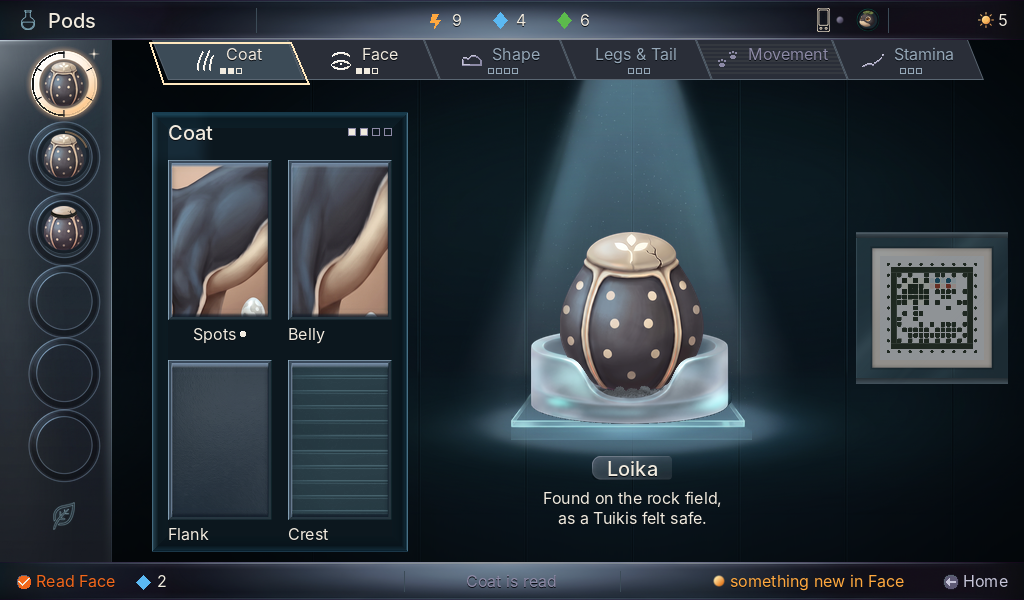
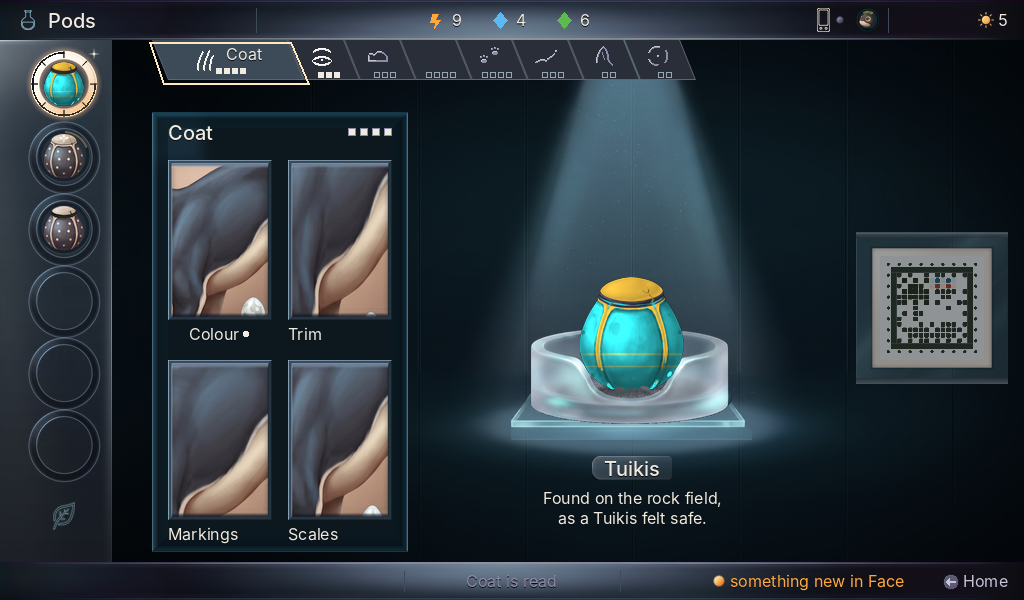
Pods masters: both composites the Tuikis with its real chapters, the plate reads the species name

diff --git a/art/station-masters/pods/tools/compose.py b/art/station-masters/pods/tools/compose.py
@@ -28,25 +28,25 @@ def compose(traits, rail):
         d.text(xy, s, font=font, fill=fill, anchor=anchor)
     put("room-bench-stage", 0, 40); put("ring-column-112x522", 0, 40)
     # the wells: a ring slice at (24, 44 + 72 i), the pod 32x48 centred in it, the arcs on the inner edge; a glint star at the selected ring's upper right
-    pods = {0: "pod-well-identified", 1: "pod-well-identified", 2: "pod-well-sealed"}; lit = {0: (6, 3), 1: (5, 1), 2: (4, 0)} if rail == "six" else {0: (8, 3), 1: (5, 1), 2: (4, 0)}
+    pods = {0: "pod-well-identified", 1: "pod-well-identified", 2: "pod-well-sealed"}; lit = {0: (8, 2 if rail == "six" else 3), 1: (5, 1), 2: (4, 0)}
     for i in range(6):
         y = 44 + 72 * i; sel = i == 0; st = "selected" if sel else "idle"
         put("ring-well-selected-80x80" if sel else "ring-well-idle-80x80", 24, y)
         if i in lit:
             n, k = lit[i]; put(f"ring-arc-{st}-n{n}-track", 24, y)       # selected: the open channel over the solid band; idle: the groove
             for j in range(k): put(f"ring-arc-{st}-n{n}-s{j}", 24, y)    # a read chapter: the solid band (selected) or the dim line (idle)
-        if i == 0 and rail == "compact": cv.alpha_composite(recol("well", *TUIKIS), (44, 60))
+        if i == 0: cv.alpha_composite(recol("well", *TUIKIS), (44, 60))
         elif i in pods: put(pods[i], 44, 60 + 72 * i)
     put("glint-star-12x12", 24 + 40 + 30 - 6, 44 + 40 - 30 - 6)
     put("ring-hatch-80x56", 24, 488)
     # the stage: the pod the protagonist on axis x 632
-    put("room-shelf", 488, 368); put("room-cradle", 520, 328); (put("pod-large-shadow", 632 - 80, 385), put("pod-large-identified", 560, 216)) if rail == "six" else (put("pod-small-shadow", 632 - Image.open("slices/pod-small-shadow.png").width // 2, 385), cv.alpha_composite(recol("small", *TUIKIS), (580, 264))); put("room-cradle-front", 520, 328)
-    NAME = "Loika" if rail == "six" else "Kesi"; tw = d.textlength(NAME, font=f20); pw = min(224, max(80, -(-int(tw + 24) // 16) * 16)); put(f"plate-name-{pw}x24", 632 - pw // 2, 456); text((632, 468), NAME, f20, CREAM, "mm")
+    put("room-shelf", 488, 368); put("room-cradle", 520, 328); put("pod-small-shadow", 632 - Image.open("slices/pod-small-shadow.png").width // 2, 385); cv.alpha_composite(recol("small", *TUIKIS), (580, 264)); put("room-cradle-front", 520, 328)
+    NAME = "Tuikis"; tw = d.textlength(NAME, font=f20); pw = min(224, max(80, -(-int(tw + 24) // 16) * 16)); put(f"plate-name-{pw}x24", 632 - pw // 2, 456); text((632, 468), NAME, f20, CREAM, "mm")
     text((632, 498), "Found on the rock field,", f16, BONE, "mm"); text((632, 518), "as a Tuikis felt safe.", f16, BONE, "mm")
     put("room-stamp-case-152x152", 856, 232); put("stamp-label-120x120", 872, 248); cv.alpha_composite(Image.open("../../concept-station/pods-v2/layout/stamp-hopper-bench-300.png").convert("RGBA").resize((104, 104), Image.NEAREST), (880, 256)); put("room-stamp-case-152x152-front", 856, 232)
     # the page, 256 wide: one state, a grid of the chapter's traits
     put("page-pane-256x440", 152, 112); text((168, 120), "Coat" if rail == "six" else "Shape", f20, CREAM)
-    for k in range(traits): x = 408 - 8 - 12 * (traits - 1 - k) - 16; d.rectangle([x, 128, x + 7, 135], fill=CREAM if (k < 2 or rail == "compact") else None, outline=MIST)
+    for k in range(traits): x = 408 - 8 - 12 * (traits - 1 - k) - 16; d.rectangle([x, 128, x + 7, 135], fill=CREAM, outline=MIST)
     def namenew(xy, word):      # the name and the new dot centred together: the dot 4 px after the name, its centre on the line's middle (a 20 px line)
         tw = d.textlength(word, font=f16); x0 = int(xy[0] - (tw + 4 + 6) / 2)
         text((x0, xy[1]), word, f16, CREAM); put("page-mark-new-10", int(x0 + tw + 4), xy[1] + 10 - 3)
@@ -59,16 +59,16 @@ def compose(traits, rail):
         px, py = 168 + (224 - 144) // 2, 160 + 40
         cv.alpha_composite(pic(144, 176), (px, py)); put("trait-picture-frame-144x176", px, py); namenew((280, py + 184), "Spots")
     else:
-        for k, (cx, cy, st) in enumerate(((168, 160, "read"), (288, 160, "read"), (168, 360, "read" if rail == "compact" else "unread"), (288, 360, "sealed"))[:traits]):
-            if st == "read": cv.alpha_composite(pic(104, 160, ((180, 166, 372, 430), (200, 250, 372, 400), (230, 200, 372, 380))[k]), (cx, cy)); put("trait-picture-frame-104x160", cx, cy)
+        for k, (cx, cy, st) in enumerate(((168, 160, "read"), (288, 160, "read"), (168, 360, "read"), (288, 360, "read"))[:traits]):
+            if st == "read": cv.alpha_composite(pic(104, 160, ((180, 166, 372, 430), (200, 250, 372, 400), (230, 200, 372, 380), (190, 220, 372, 410))[k]), (cx, cy)); put("trait-picture-frame-104x160", cx, cy)
             else: put(f"trait-picture-frame-104x160-{st}", cx, cy)
-            (namenew((cx + 52, cy + 164), "Build" if rail == "compact" else "Spots") if k == 0 else text((cx, cy + 164), (("Build", "Haunch", "Topline") if rail == "compact" else ("Spots", "Belly", "Flank", "Crest"))[k], f16, CREAM))
+            (namenew((cx + 52, cy + 164), "Build" if rail == "compact" else "Colour") if k == 0 else text((cx, cy + 164), (("Build", "Haunch", "Topline") if rail == "compact" else ("Colour", "Trim", "Markings", "Scales"))[k], f16, CREAM))
     # the rail: tabs hang from the bar at y 40 and touch along their slants
-    if rail == "six": tabs = [("Coat", "focused", 3), ("Face", "read", 3), ("Shape", "unread", 4), ("Legs & Tail", "unread", 3), ("Movement", "sealed", 0), ("Stamina", "unread", 3)]; open_i = None
-    else: tabs = [("Coat", "read", 4), ("Face", "read", 3), ("Shape", "focused", 3), ("Legs", "unread", 4), ("Movement", "unread", 4), ("Stamina", "unread", 3), ("Character", "unread", 2), ("Glow", "unread", 2)]; open_i = 2      # the eight chapters of a Tuikis (S03)
+    TUI = [("Coat", 4), ("Face", 3), ("Shape", 3), ("Legs & Tail", 4), ("Movement", 4), ("Stamina", 3), ("Character", 2), ("Glow", 2)]; open_i = 0 if rail == "six" else 2      # the eight chapters of a Tuikis (S03), one open and read
+    tabs = [(w_, "focused" if i_ == open_i else ("read" if i_ < 2 else "unread"), p_) for i_, (w_, p_) in enumerate(TUI)]
     x = 152; ring = None
     for i, (word, st, pips) in enumerate(tabs):
-        full = rail == "six" or i == open_i; w = 136 if full else 56
+        full = i == open_i; w = 136 if full else 56
         put(f"rail-tab-fill-{'open' if st == 'focused' else st}-{'full-152x40' if full else 'compact-72x40'}", x, 40)
         if st == "focused": ring = (x, w)
         es = "read" if st in ("read", "focused") else st
@@ -77,9 +77,9 @@ def compose(traits, rail):
             tw = d.textlength(word, font=f16); bx = x + 76 - (32 + tw) / 2
             if word == "Legs & Tail": text((x + 76, 54), word, f16, pc if st != "sealed" else MIST, "mm")      # no emblem until Legs & Tail is picked: the word alone
             else: cv.alpha_composite(S(f"rail-emblem-{CID[word]}-{es}-24x24"), (int(bx), 48)); text((bx + 32, 54), word, f16, pc if st != "sealed" else MIST, "lm")
-            for p in range(pips): px = int(x + 80 - pips * 4 + 8 * p); d.rectangle([px, 68, px + 5, 73], fill=pc if st in ("read", "focused") and p < (pips if rail == "compact" else 2) else None, outline=pc)
+            for p in range(pips): px = int(x + 80 - pips * 4 + 8 * p); d.rectangle([px, 68, px + 5, 73], fill=pc if st in ("read", "focused") and p < pips else None, outline=pc)
         else:
-            if word != "Legs": cv.alpha_composite(S(f"rail-emblem-{CID[word]}-{es}-24x24"), (x + 34 - 12, 44))        # pips only on the Legs & Tail tab
+            if word != "Legs & Tail": cv.alpha_composite(S(f"rail-emblem-{CID[word]}-{es}-24x24"), (x + 34 - 12, 44))        # pips only on the Legs & Tail tab
             for p in range(min(pips, 4)): px = int(x + 42 - min(pips, 4) * 4 + 8 * p); d.rectangle([px, 72, px + 5, 77], fill=pc if st in ("read", "focused") else None, outline=pc)
         x += w
     if ring:
@@ -94,7 +94,7 @@ def compose(traits, rail):
     put("frame-companion-outline-16x24", 816, 8); put("frame-lamp-8-stone", 836, 16); put("face-loika-24-away", 856, 8)
     tw5 = d.textlength("5", font=f16); put("frame-sun-16", int(1008 - tw5 - 4 - 16), 12); text((1008, 20), "5", f16, CREAM, "rm")
     # the bottom line: the one action, the context, the notice
-    if rail == "six":      # a read-again chapter open and focused (the Shape page of the Grid composite) has no verb and no cap: the context says it is read
+    if False:      # a read-again chapter open and focused (the Shape page of the Grid composite) has no verb and no cap: the context says it is read
         put('frame-cap-confirm-16', 16, 574); text((36, 581), "Read Face", f16, ORANGE, "lm")
         vw = d.textlength("Read Face", font=f16); gx = int(36 + vw + 24)
         d.polygon([(gx + 4, 575), (gx + 11, 582), (gx + 4, 589), (gx - 3, 582)], fill=(91, 185, 243, 255)); text((gx + 18, 581), "2", f16, CREAM, "lm")

diff --git a/art/station-masters/pods/README.md b/art/station-masters/pods/README.md
@@ -336,6 +336,11 @@ Each slice is named by the register id it replaces (`room`, `ring`, `page`, `tra
 
 <!-- end of the generated Slices section -->
 
+## Pass 15b - both composites are the Tuikis, with its real chapters
+
+The name plate reads the species name alone ("Tuikis"); the origin caption keeps the "Found..." sentence. The Read composite is now the same Tuikis pod with its real Coat chapter from the S03 frame (Colour, Trim, Markings, Scales: four cells), Coat open and read, on the same eight-chapter rail (Coat 4, Face 3, Shape 3, Legs & Tail 4, Movement 4, Stamina 3, Character 2, Glow 2); the Grid composite is the Shape page (Build, Haunch, Topline). No invented traits remain. Both bottom lines follow the read-again rule (no cap, no verb, "Coat is read" / "Shape is read", "Home" at the right, the notice kept). The pictures are still Coat crops of the mibi painting, stand-ins (no Tuikis or Shape paintings exist); the stand-ins also include the holdings icons, the pips, the focus ring, the arc progress, the stamp raster, the Companion marks and the other wells' pods.
+
+
 ## Pass 15 - Legs & tail through the pixel pipeline (candidates only)
 
 Eight hand rounds did not give a tail, so the method changed. `emblems/pipeline/`:
